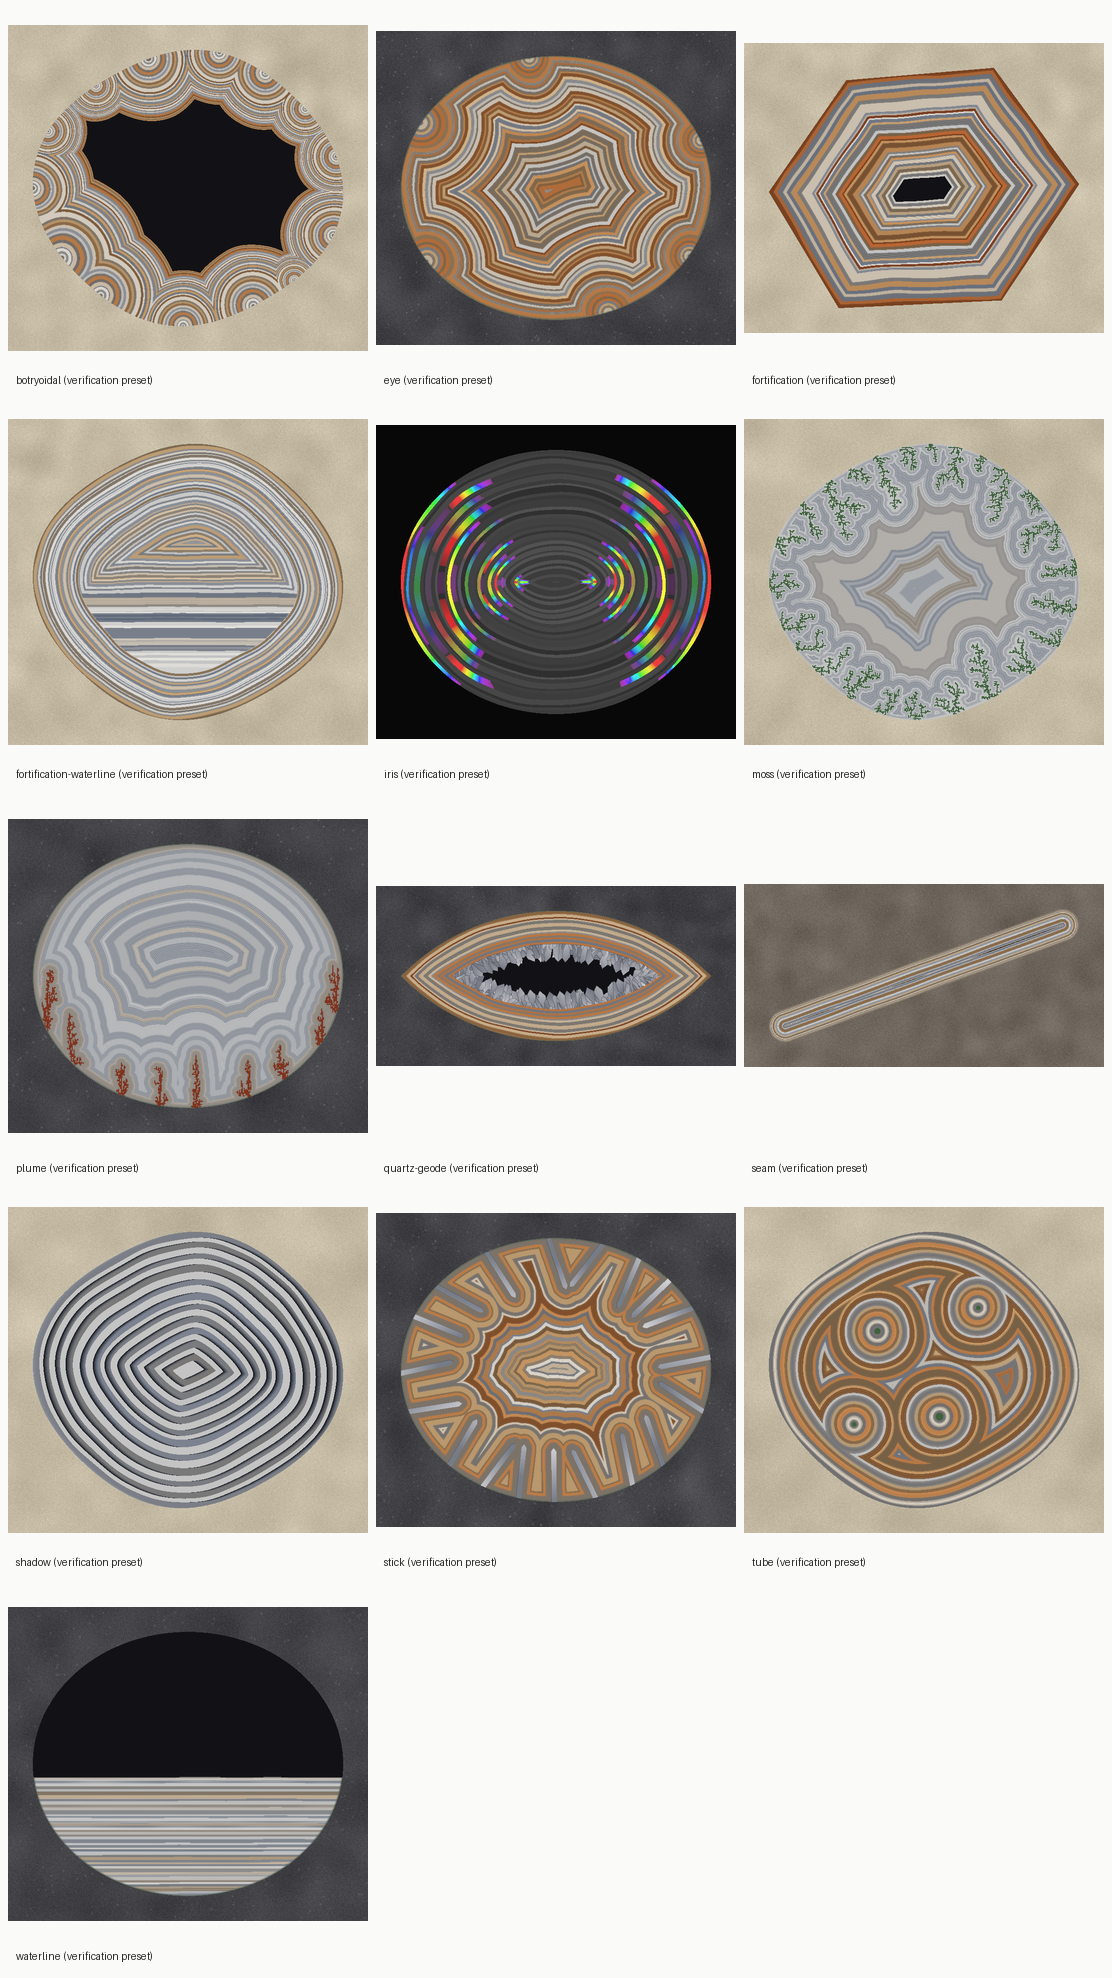
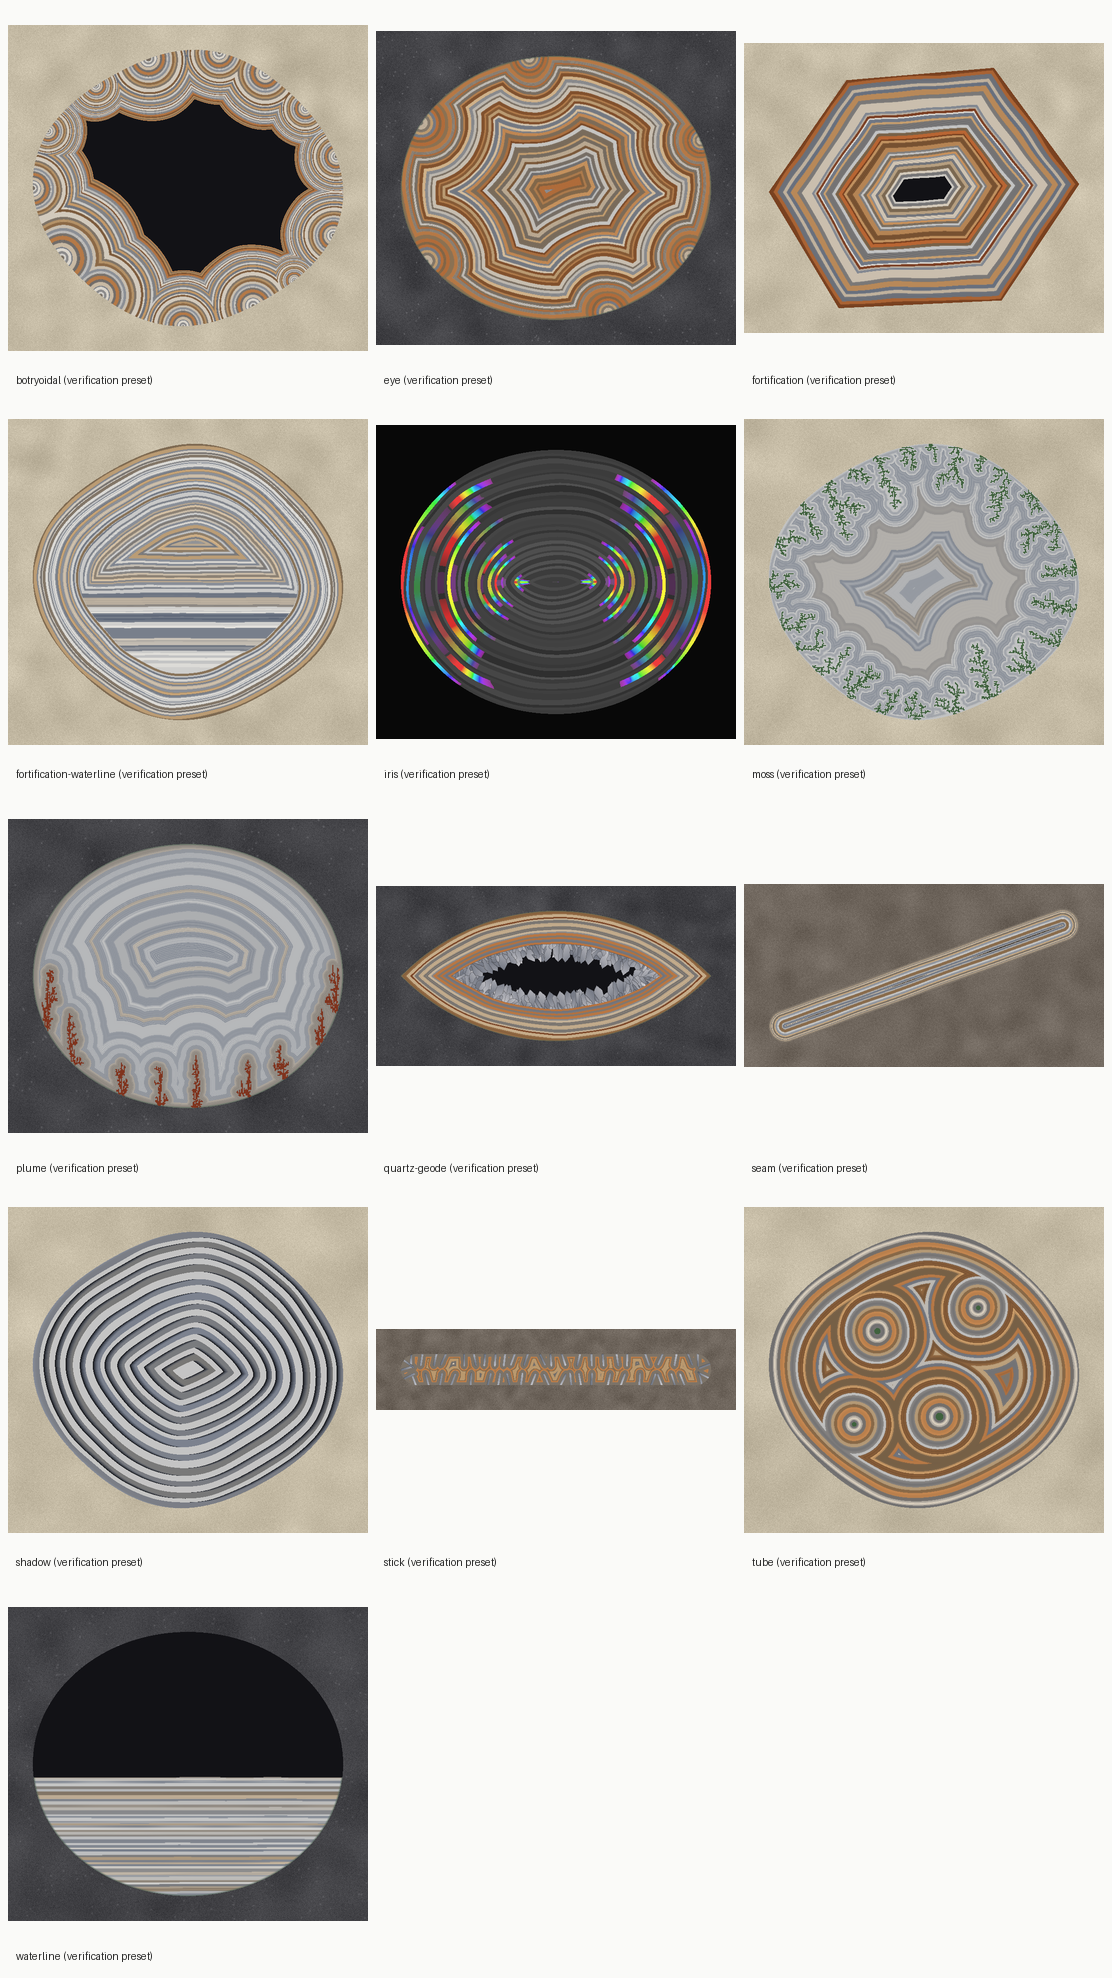
Stick agate from the paper: a zeolite in a crevice vein (ADR 0049)
Hatipoglu and Dora 2000, read in full by OCR of the Turkish scan, confirms
the form (completely silicified rectangular-prism sticks keeping their
crystal shape, named "Cubuklu Agat"), points to a zeolite as the original
mineral, and places the stick agates in crevice veins in andesite.

Both stick presets move to a 120 mm crevice vein (seam-straight) with
sticks scaled to it (spacing 4.5 mm, length 5 mm, elongation 12); the
registry lists the hosts as volcanic and seam. At 768 px: stick 45 of 48
sticks straight, wrap 0.83; stick-mechanistic 44 of 47, wrap 1.0. Both
pass at 384 px; at 256 px the bands beside sub-millimetre sticks aren't
resolved. Catalogue entry now full-text.

Changed region(s): [[0.3363, 0.5859, 0.6727, 0.771]]

diff --git a/tests/test_staged.py b/tests/test_staged.py
@@ -225,9 +225,10 @@ def test_hollow_stick_moulds_pass_as_stick_agate() -> None:
 
 def test_stick_crystals_ignore_the_grid() -> None:
     """Sites sit on the exact wall and grow in world coordinates, so a coarse
-    run's sticks lie where a fine run's do."""
-    coarse = simulate(_stick_config().with_resolution(256))
-    fine = simulate(_stick_config().with_resolution(512))
+    run's sticks lie where a fine run's do (384 against 768 px: the sticks are
+    under a millimetre wide in a 120 mm seam)."""
+    coarse = simulate(_stick_config().with_resolution(384))
+    fine = simulate(_stick_config().with_resolution(768))
     rows, cols = np.nonzero(coarse.fields.phase == Phase.QUARTZ)
     g = coarse.grid
     pts = np.stack([g.x0 + (cols + 0.5) * g.dx, g.y1 - (rows + 0.5) * g.dx], axis=1)

diff --git a/docs/adr/0049-stick-agate.md b/docs/adr/0049-stick-agate.md
@@ -87,13 +87,35 @@ agate, from Ankara (Turkey) and Morocco.
   form itself; the ADR names it as such. Reading the Hatipoğlu and Dora
   paper would test the picture (and might settle the original mineral).
 
-## Amendment (2026-10-17): the presets moved to a volcanic vesicle
+## Amendment (2026-10-17): the paper read; the presets in a vein
 
-The Ankara agates sit in andesite, and the registry lists stick agate's host
-as volcanic, so both presets now use the 40 mm round vesicle rather than a
-sedimentary nodule. Results at 768, 384 and 256 px:
+With a PDF library and OCR (owner approved), [@hatipoglu2000] was read in
+full (OCR of the Turkish scan, imperfect in places). It confirms the form and
+changes two details:
 
-- `stick-mechanistic`: all 18 patches straight (1.0), fill 1.0, wrap 1.0.
-- `stick`: all 19 straight (1.0), fill 1.0; with the procedural bands'
-  wobble lowered from 0.1 to 0.03 mm, wrap 1.0, 0.92 and 0.87 (with 0.1 mm,
-  0.70, 0.64 and 0.68: the wobble is large next to the bands nearest a stick).
+- **The form, confirmed.** Agates in the Ankara andesites contain
+  "completely silicified" stick-like structures of rectangular-prism shape,
+  with fine striations along the prism, that keep the original crystal shape
+  (pseudomorphs). Seen first and only there, they were named stick agate
+  ("Çubuklu Agat"). Trace-element analyses of the sticks find Fe, Pb and Zn.
+- **The original mineral: probably a zeolite.** In a contact-zone fracture
+  the sequence from wall to centre is tremolite, chlorite, silicified
+  radiating pseudomorphs ("probably zeolite"), then agate banding. Not
+  anhydrite or aragonite, as dealers and a database note had it. The model's
+  crystals stay generic; zeolites grow as prisms and radiating sprays, which
+  the blade habit already gives.
+- **The setting: veins.** The stick-bearing agates fill crevice and fissure
+  veins in andesite (1 mm to 10 cm wide), with concentric bands and no
+  horizontal ones; the nodular, vesicle-filling agates are in the rhyolite.
+
+So both presets now use a crevice vein (`seam-straight`, 120 mm long, about
+12 mm wide), with sticks scaled to it (spacing 4.5 mm, length 5 mm,
+elongation 12, about 0.8 mm wide); the registry lists the form's hosts as
+volcanic and seam. Earlier the same day the presets had moved from a
+sedimentary nodule to a volcanic vesicle; the vein is closer to the paper.
+
+Results at 768 px: `stick` 45 straight sticks of 48 (0.94), fill 1.0, wrap
+0.83; `stick-mechanistic` 44 of 47 (0.94), fill 1.0, wrap 1.0. Both pass at
+384 px too. At 256 px a pixel is 0.47 mm across the 120 mm seam, too coarse
+to resolve bands beside sticks under a millimetre wide, so the wrap test
+fails there; CI verifies at 768 px.

diff --git a/docs/archetypes.md b/docs/archetypes.md
@@ -22,7 +22,7 @@ provisional until the archetype is implemented.
 | 10 | [Plume agate](#plume) | verified | verified | formation | volcanic, sedimentary | moss |
 | 11 | [Shadow agate](#shadow) | verified | verified | optics | volcanic, sedimentary | fortification |
 | 12 | [Iris agate](#iris) | verified | verified | optics | volcanic, sedimentary | fortification |
-| 13 | [Stick agate](#stick) | verified | verified | formation | volcanic | tube |
+| 13 | [Stick agate](#stick) | verified | verified | formation | volcanic, seam | tube |
 
 ## Fortification (concentric) banding
 
@@ -187,10 +187,11 @@ diffraction grating. Needs wave-optics rendering.
 
 <a id="stick"></a>
 
-Straight, crystal-shaped rods inside the agate: blades of an earlier mineral
-(anhydrite or aragonite; not settled) that grew in the cavity before the agate,
-were lined by its bands, and were later replaced by quartz or dissolved, leaving
-pseudomorphs or hollow moulds ("barred agates" of Ankara-Çubuk).
+Straight, crystal-shaped rods inside the agate: prisms of an earlier mineral
+(probably a zeolite at Ankara-Çubuk) that grew in the cavity before the agate,
+were lined by its bands, and were later replaced by silica, keeping their
+shape (pseudomorphs), or dissolved, leaving moulds. At Ankara they fill
+crevice veins in andesite.
 
 | Criterion | Description | Metric | Pass if |
 |---|---|---|---|

diff --git a/README.md b/README.md
@@ -74,8 +74,8 @@ and which proposed formation mechanisms, can produce them.
 - **Stick agate from crystals that came first.** Blade-shaped crystals grown
   from the wall by the quartz crystals' growth law, lined by H1's bands and
   replaced by quartz (or dissolved), give straight pseudomorphs wrapped by
-  the bands. The form's own sources are thin; the original mineral
-  (anhydrite or aragonite) is open
+  the bands, in a crevice vein as at Ankara. The one study of the form
+  points to a zeolite as the original mineral
   ([ADR 0049](docs/adr/0049-stick-agate.md)).
 - **Colour from pigments.** Bands can be coloured by hematite, goethite,
   celadonite, Mn oxide, a violet colour centre, blue scattering or white, as
@@ -114,7 +114,7 @@ nature ([ADR 0005](docs/adr/0005-verification-tiers-and-parameter-natures.md)).
 | Plume | ✅ verified | ✅ verified (chemical-garden tubes, then H1) |
 | Shadow | ✅ verified | ✅ verified (stated assumption, ADR 0048) |
 | Iris | ✅ verified | ✅ verified (H1 with a fast second rhythm) |
-| Stick | ✅ verified | ✅ verified (blade crystals, H1 lining, replacement; thin sourcing, ADR 0049) |
+| Stick | ✅ verified | ✅ verified (blade crystals, H1 lining, replacement; ADR 0049) |
 
 ## Approach
 
